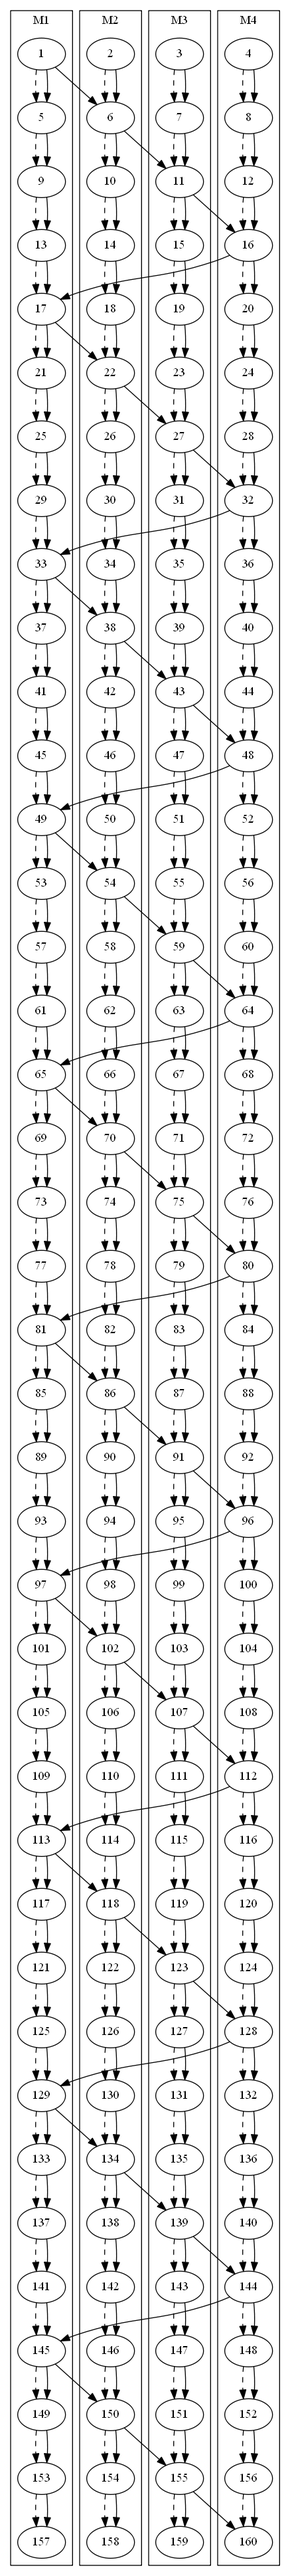
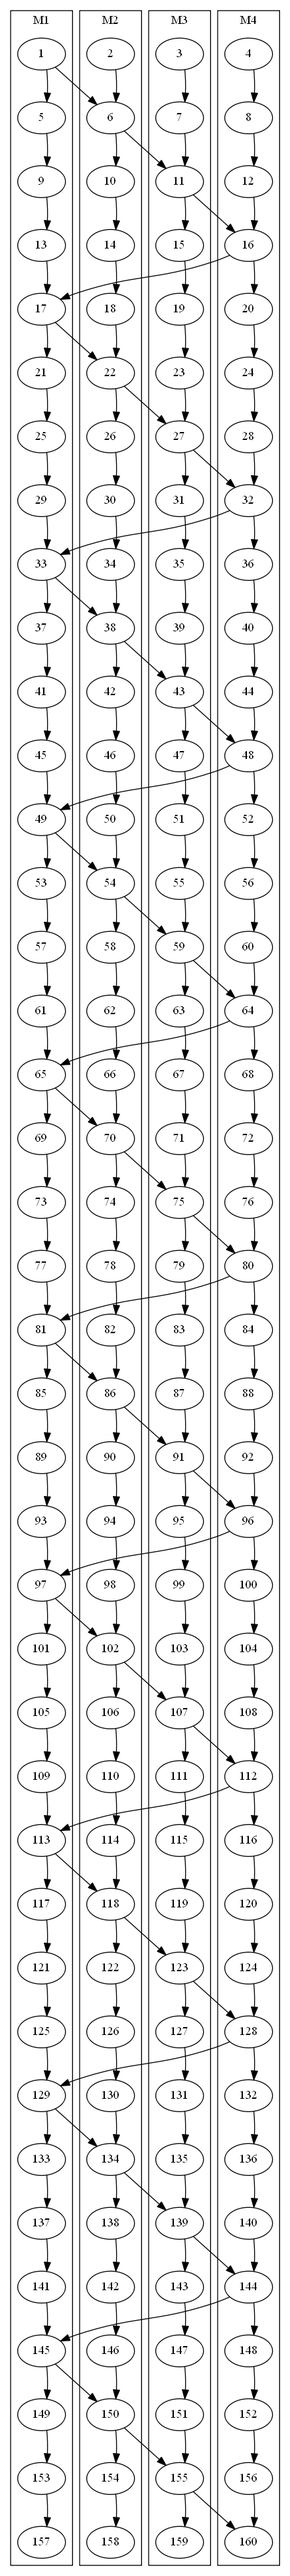
Machine arcs now invisible instead of dotted.

diff --git a/SimulationTools/SchedulePrintFunctions.cs b/SimulationTools/SchedulePrintFunctions.cs
@@ -144,7 +144,7 @@ namespace SimulationTools
                             sw.Write(M.AssignedJobs[index].ID);
                         }
                     }
-                    sw.WriteLine("[style=dashed];");
+                    sw.WriteLine("[style=invis];");
                     sw.WriteLine("label = \"M{0}\";", M.MachineID);
                     sw.WriteLine("}");
 
